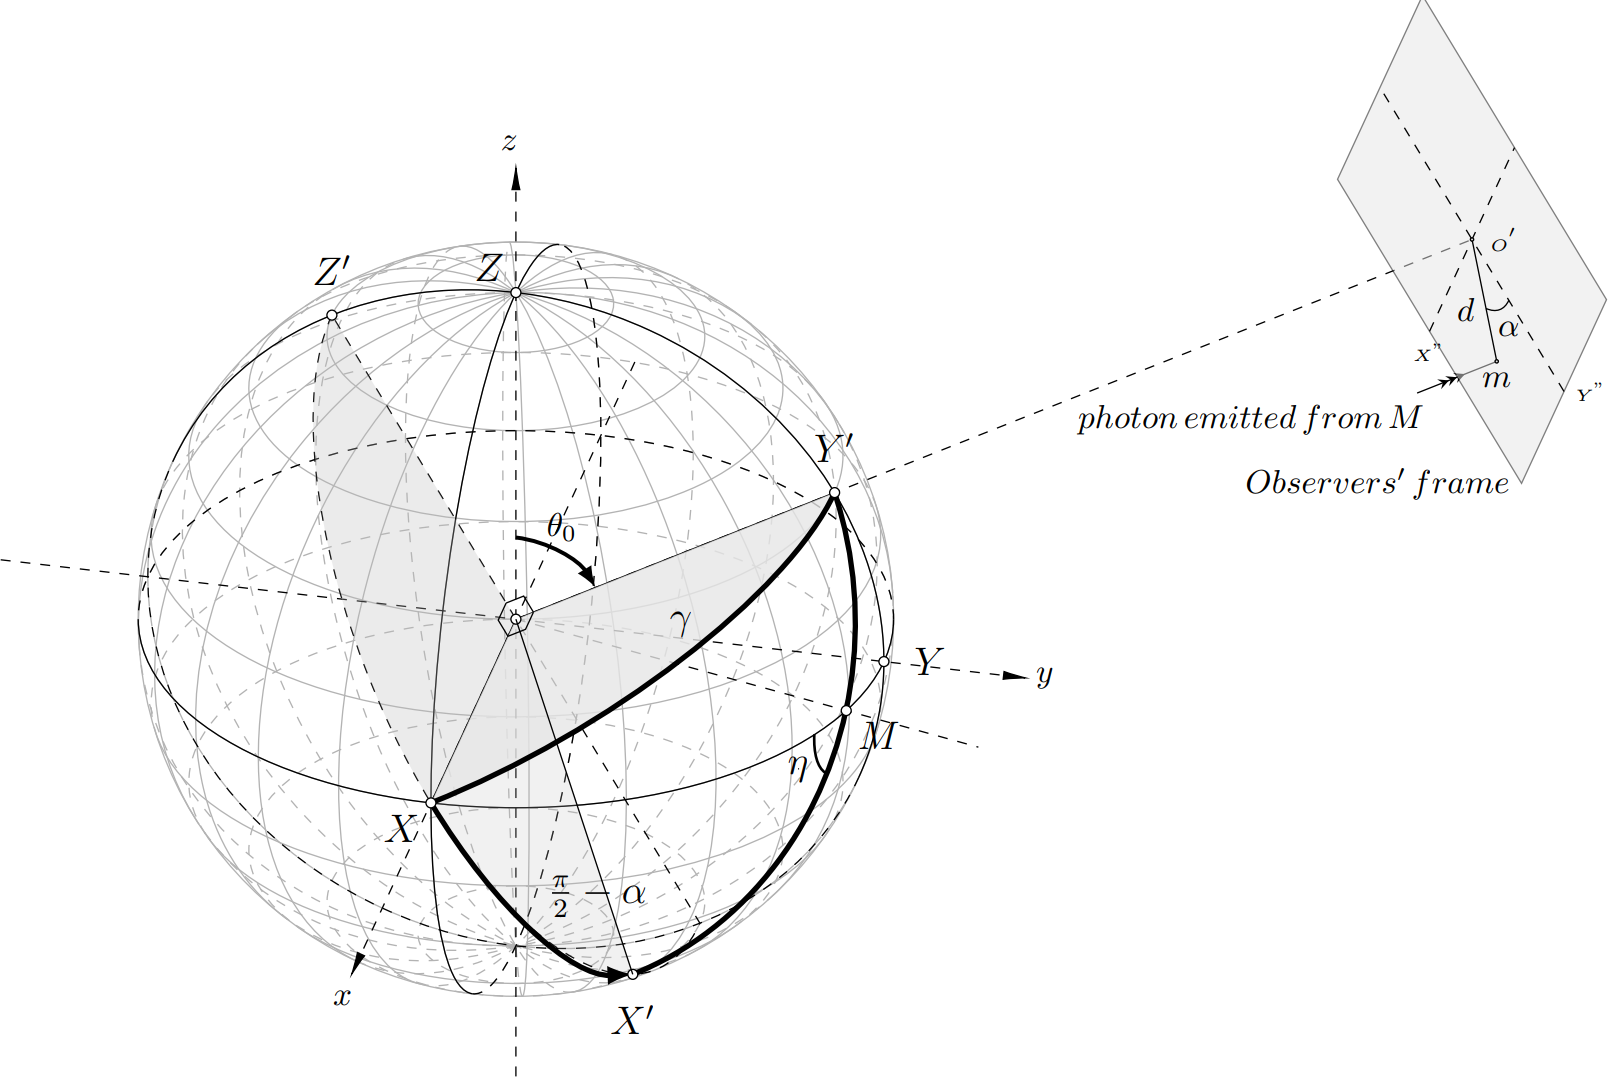
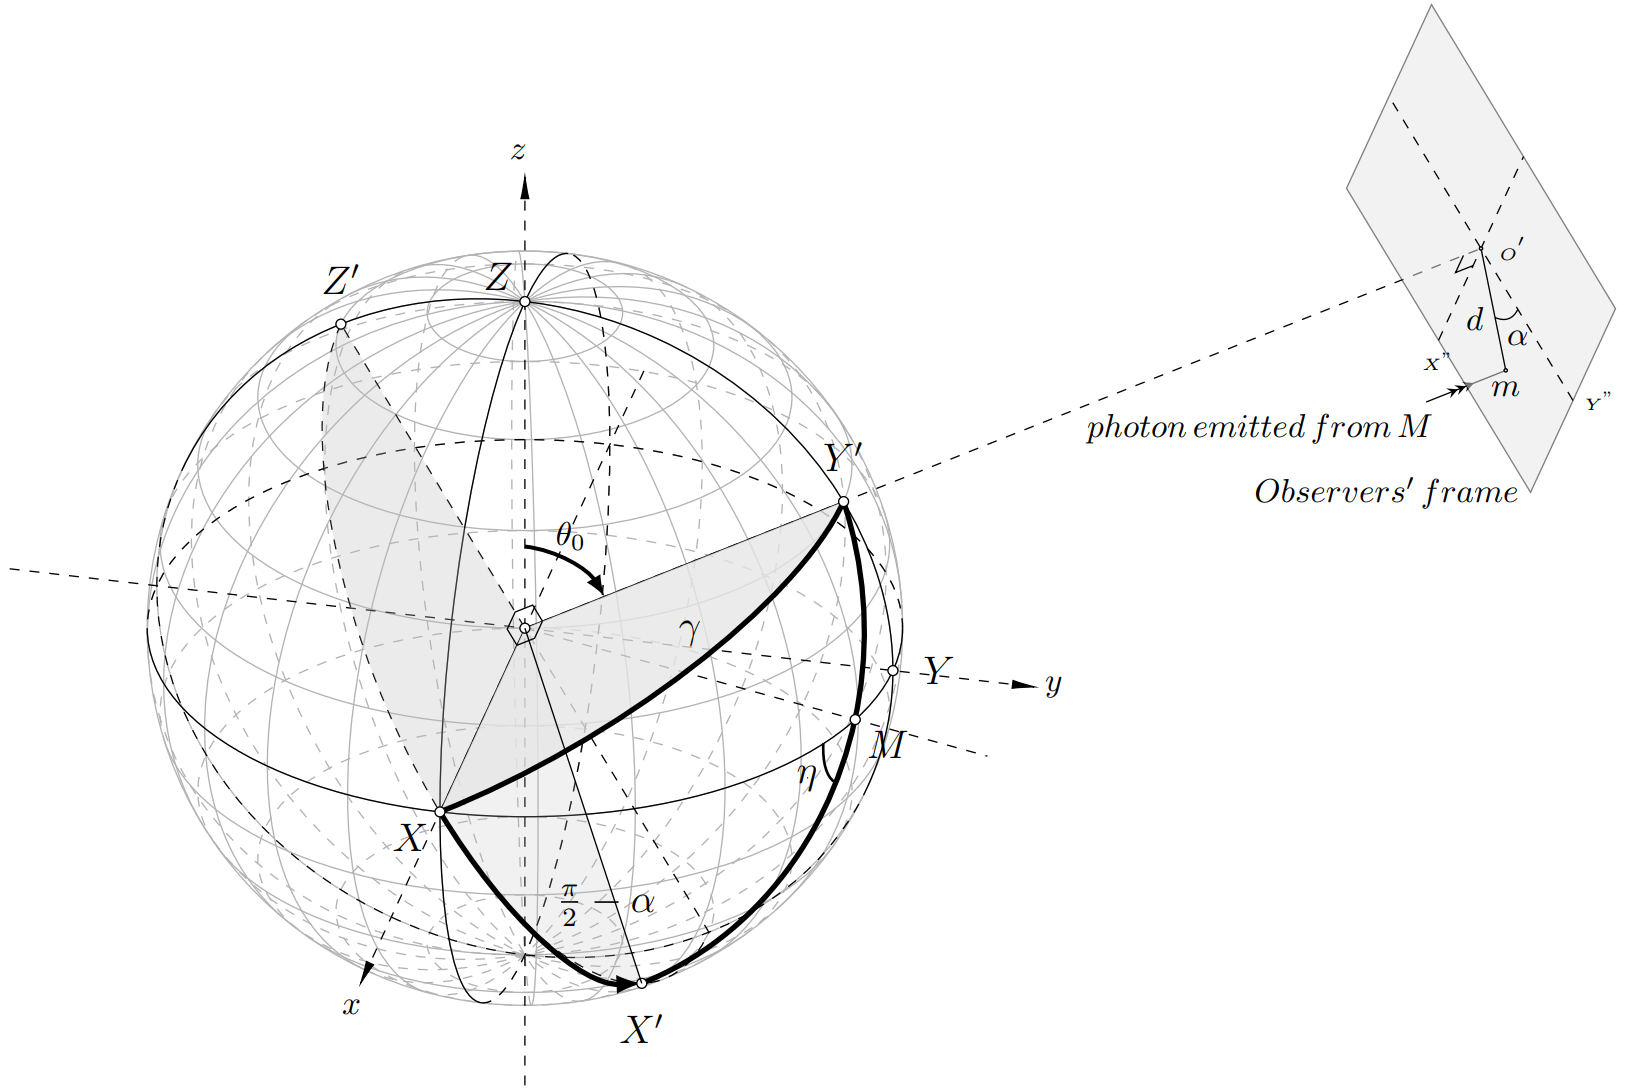
s

diff --git a/Source/main.cpp b/Source/main.cpp
@@ -6,7 +6,7 @@
 #include "BlackHolePhysics.h"
 #include <discpp.h>
 
-void plot_IR(std::vector<double>&, std::vector<double>&);
+void plot_IR(std::vector<double>&, std::vector<double>&, std::vector<double>&, std::vector<double>&);
 int main() {
 	
 	BHphysics BHp;
@@ -46,28 +46,40 @@ int main() {
 	BH.sample_Sources(20000);// , "D:/dev/Cpp/Luminet/Points/points_incl=85b.csv", "D:/dev/Cpp/Luminet/Points/points_secondary_incl=85b.csv");
 	*/
 	//test single isoradial
-	Isoradial IR(30.0*bh_mass,80*M_PI/180, bh_mass,0);
+	double inclination =80.0;//in degrees
+	double distance = 30.0;
+	Isoradial IR(distance *bh_mass, inclination *M_PI/180, bh_mass,0);
 	IR.calculate();
+	Isoradial IRg(distance * bh_mass, inclination * M_PI / 180, bh_mass, 1);//ghost
+	IRg.calculate();
 	std::pair<std::vector<double>, std::vector<double>> bare_isoradials= IR.get_bare_isoradials();//temporary functions for debugging
 	std::vector<double> xx = std::get<0>(bare_isoradials);
 	std::vector<double> yy = std::get<1>(bare_isoradials);
-	/*for (int i = 0; i < xx.size(); i++) {
+	std::pair<std::vector<double>, std::vector<double>> bare_ghost_isoradials = IRg.get_bare_isoradials();//temporary functions for debugging
+	std::vector<double> xx_ghost = std::get<0>(bare_ghost_isoradials);
+	std::vector<double> yy_ghost = std::get<1>(bare_ghost_isoradials);
+	/*std::cout << std::endl << std::endl << std::endl << "Passed to main with size " << xx.size() << std::endl;
+	for (size_t i = 0; i < xx.size(); i++) {
 		std::cout << i << "):  (x, y) = (" << xx[i] << ", " << yy[i] << ")" << std::endl;
 	}*/
-	plot_IR(yy, xx);
+	plot_IR(xx, yy, xx_ghost,yy_ghost);
 
 	return 0;
 }
 
-void plot_IR(std::vector<double>& xx, std::vector<double>& yy) {
+void plot_IR(std::vector<double>& xx, std::vector<double>& yy, std::vector<double>& xx_g, std::vector<double>& yy_g) {
 	Dislin g;
-	int n = 400;
-	double xray[400], yray[400], x2[10], y2[10];
+	int n =xx.size();
+	
+	//double xray[400], yray[400];
 
 	double x_max = -10000000000.0;
 	double x_min = 10000000000.0;
 	double y_max = -10000000000.0;
 	double y_min = 10000000000.0;
+	/*
+	
+	int n = 400;
 	for (unsigned i = 0; i < n; i++)
 	{
 		yray[i] = xx[i];
@@ -76,15 +88,30 @@ void plot_IR(std::vector<double>& xx, std::vector<double>& yy) {
 		if (xray[i] >= x_max)x_max = xray[i];
 		if (yray[i] <= y_min)y_min = yray[i];
 		if (yray[i] > y_max)y_max = yray[i];
+	}*/
+	for (unsigned i = 0; i < n; i++)
+	{
+		if (xx[i] <= x_min)x_min = xx[i];
+		if (xx[i] >= x_max)x_max = xx[i];
+		if (yy[i] <= y_min)y_min = yy[i];
+		if (yy[i] > y_max)y_max = yy[i];
 	}
+	x_max *= 1.1;
+	x_min *= 1.1;
+	y_max *= 1.1;
+	y_min *= 1.1;
+	if (x_max < y_max)x_max = y_max;
+	if (x_min < y_min)y_min = x_min;
+	if (x_max > y_max)y_max = x_max;
+	if (x_min > y_min)x_min = y_min;
 
 	g.metafl("cons");
-	g.scrmod("revers");
+	//g.scrmod("revers");
 	g.disini();
 	g.pagera();
 	g.complx();
 	g.axspos(450, 1800);
-	g.axslen(2200, 1200);
+	g.axslen(1200, 1200);
 
 	g.name("X-axis", "x");
 	g.name("Y-axis", "y");
@@ -97,11 +124,13 @@ void plot_IR(std::vector<double>& xx, std::vector<double>& yy) {
 	g.titlin("(no redshift)", 3);
 
 
-	int ic = g.intrgb(0.95, 0.95, 0.95);
+	//int ic = g.intrgb(0.95, 0.95, 0.95);
+	int ic = g.intrgb(0., 0., 0.);
 	g.axsbgd(ic);
 
 	g.graf(x_min, x_max, x_min, (x_max-x_min)/10, y_min, y_max, y_min,  (y_max - y_min) / 10);
-	g.setrgb(0.7, 0.7, 0.7);
+	//g.setrgb(0.7, 0.7, 0.7);
+	g.setrgb(0.0, 0.0, 0.0);
 	g.grid(1, 1);
 	g.winfnt("Times New Roman Bold");
 	//g.psfont("Courier-Bold");
@@ -111,7 +140,11 @@ void plot_IR(std::vector<double>& xx, std::vector<double>& yy) {
 
 	g.color("red");
 	g.linwid(3);
-	g.curve(xray, yray, n);
+	//g.curve(xray, yray, n);
+	g.curve(&xx[0], &yy[0], n);
+	g.color("blue");
+	g.linwid(3);
+	g.curve(&xx_g[0], &yy_g[0], n);
 
 	g.disfin();
 }

diff --git a/Source/TensorCalculus.cpp b/Source/TensorCalculus.cpp
@@ -188,23 +188,22 @@ std::vector<double> OperatorsOrder2::linspace(const double& start_in, const doub
 	return linspaced;
 }
 
-std::pair<std::vector<double>, std::vector<double>> OperatorsOrder2::polar_to_cartesian_lists(std::vector<double> radii, std::vector<double> angles, double rotation) {
-	std::vector<double> x;
-	std::vector<double> y;
-
-	for (size_t i = 0; i < radii.size(); ++i) {
-		double x_ = radii[i] * std::cos(angles[i] + rotation);
-		double y_ = radii[i] * std::sin(angles[i] + rotation);
-		x.push_back(x_);
-		y.push_back(y_);
+std::pair<std::vector<double>, std::vector<double>> OperatorsOrder2::polar_to_cartesian_lists(const std::vector<double>& radii, const std::vector<double>& angles, const double& rotation) {
+	std::vector<double>IRx;
+	std::vector<double> IRy;
+	//std::cout << "Values computed in OperatorsOrder2::polar_to_cartesian_lists;" << std::endl;
+	for (unsigned i = 0; i < radii.size(); i++) {
+		IRx.push_back(radii[i] * cos(angles[i]+rotation));
+		IRy.push_back(radii[i] * sin(angles[i]+rotation));
+		//std::cout << i << ") for angle : " << angles[i]*180/M_PI <<" and radius " << radii[i] <<": x = " << IRx[i] << " and y = " << IRy[i] << std::endl;
 	}
 
-	return std::make_pair(x, y);
+	return std::make_pair(IRx, IRy);
 }
 
 std::pair<double, double> OperatorsOrder2::polar_to_cartesian_single(double th, double radius, double rotation) {
-	double x = radius * cos(th + rotation);
-	double y = radius * sin(th + rotation);
+	double x = radius * sin(th + rotation);
+	double y = radius * cos(th + rotation);
 	return std::make_pair(x, y);
 }
 

diff --git a/Include/IsoRadials.h b/Include/IsoRadials.h
@@ -17,10 +17,11 @@ public:
 	Isoradial(double radius, double incl, double bh_mass, int order, angular_properties);
 	//Isoradial(const std::vector<double>& angles, const std::vector<double>& radius_b);
 	std::pair<std::vector<double>, std::vector<double>> get_bare_isoradials();
+	//std::pair<std::vector<double>, std::vector<double>> get_bare_ghost_isoradials();
 
 private://variables
 	double M;  // mass of the black hole containing this isoradial
-	double t;  // inclination of the observer's plane
+	double theta_0;  // inclination of the observer's plane
 	double radius;
 	int order;
 	struct params {
@@ -30,7 +31,8 @@ private://variables
 	
 	std::vector<double> redshift_factors;
 	std::tuple<std::vector<double>, std::vector<double>> cartesian_co;
-	std::pair<std::vector<double>, std::vector<double>> bare_isoradials;
+	std::pair<std::vector<double>, std::vector<double>> bare_isoradials;//TEMPORARY for debugging: holds the polar coordinates (angles, radii) of the projected isoradial
+	//std::pair<std::vector<double>, std::vector<double>> bare_ghost_isoradials;//TEMPORARY for debugging: holds the polar coordinates (angles, radii) of the projected isoradial
 
 private://methods
 
@@ -55,6 +57,6 @@ public://variables ? make get method?
 
 	std::vector<double> X;
 	std::vector<double> Y;
-	std::vector<double> radii_b;
-	std::vector<double> angles;
+	std::vector<double> _radii_b;
+	std::vector<double> _angles;
 };

diff --git a/Include/TensorCalculus.h b/Include/TensorCalculus.h
@@ -35,15 +35,14 @@ public:
 	std::vector<std::vector<std::vector<double>>> Add(const std::vector<std::vector<std::vector<double>>>&, const double&, const std::vector<std::vector<std::vector<double>>>&, const double&);
 	static std::vector<double>  linspace(const double&, const double&, const int&);
 
-	static std::pair<std::vector<double>, std::vector<double>> polar_to_cartesian_lists(std::vector<double> radii, std::vector<double> angles, double rotation);
+	static std::pair<std::vector<double>, std::vector<double>> polar_to_cartesian_lists(const std::vector<double>& radii, const std::vector<double>& angles, const double& rotation);
 	static std::pair<double, double> polar_to_cartesian_single(double th, double radius, double rotation);
 	//static std::vector<double> polar_to_cartesian_single_as_vector(double th, double radius, double rotation);
 	static std::pair<double, double> cartesian_to_polar(double x, double y);
 	static double get_angle_around(const std::vector<double>& p1, const std::vector<double>& p2);
 
 private:
-	static std::vector<double> matrixMultiply(const std::vector<std::vector<double>>& matrix,
-		const std::vector<double>& vector);
+	static std::vector<double> matrixMultiply(const std::vector<std::vector<double>>& matrix, const std::vector<double>& vector);
 	int nGrid;
 	double delta;
 };

diff --git a/Source/BlackHole.cpp b/Source/BlackHole.cpp
@@ -39,7 +39,7 @@ Isoradial BlackHole::calc_apparent_outer_disk_edge() {
 	std::vector<double> X_;
 	std::vector<double> Y_;
 	std::pair<std::vector<double>, std::vector<double>> XY_;
-	XY_ = OperatorsOrder2::polar_to_cartesian_lists(ir.radii_b, ir.angles, -M_PI / 2);
+	XY_ = OperatorsOrder2::polar_to_cartesian_lists(ir._radii_b, ir._angles, -M_PI / 2);
 	ir.X = std::get<0>(XY_);
 	ir.Y = std::get<1>(XY_);
 	return ir;
@@ -53,13 +53,13 @@ Isoradial BlackHole::calc_apparent_outer_disk_edge() {
 Isoradial BlackHole::calc_apparent_inner_disk_edge() {
 	// Implementation of calc_apparent_inner_disk_edge method
 	Isoradial ir(disk_inner_edge, t, M, 0);
-	for (auto& b : ir.radii_b) {
+	for (auto& b : ir._radii_b) {
 		b *= 0.99; // scale slightly down
 	}
 	std::vector<double> X_;
 	std::vector<double> Y_;
 	std::pair<std::vector<double>, std::vector<double>> XY_;
-	XY_ = OperatorsOrder2::polar_to_cartesian_lists(ir.radii_b, ir.angles, -M_PI / 2);
+	XY_ = OperatorsOrder2::polar_to_cartesian_lists(ir._radii_b, ir._angles, -M_PI / 2);
 	ir.X = std::get<0>(XY_);
 	ir.Y = std::get<1>(XY_);
 	return ir;

diff --git a/Source/IsoRedShift.cpp b/Source/IsoRedShift.cpp
@@ -96,7 +96,7 @@ std::pair<std::vector<double>, std::vector<double>> IsoRedShift::calc_redshift_o
 	_angular_properties_.angular_precision = angular_precision;
 	_angular_properties_.mirror = mirror;
 
-	Isoradial ir(radius, t, M, 0, _angular_properties_);
+	Isoradial ir(radius, theta_0, M, 0, _angular_properties_);
 
 	ir.find_redshift_params_.force_redshift_solution = force_solution;
 
@@ -249,7 +249,7 @@ std::pair<std::map<double, std::vector<std::vector<double>>>, std::map<double, s
 std::pair<std::vector<double>, std::vector<double>> IsoRedShift::calc_core_coordinates() {
 	// Assuming you have defined Isoradial class and its constructor in your C++ code.
 	
-Isoradial ir(6. * M, t, M, 0);
+Isoradial ir(6. * M, theta_0, M, 0);
 return ir.calc_redshift_location_on_ir(redshift);
 std::pair<std::vector<double>, std::vector<double>>a;
 return a;

diff --git a/Documentation/Math/images/fig_Coordinate_system.tex b/Documentation/Math/images/fig_Coordinate_system.tex
@@ -153,6 +153,7 @@ mark= at position 0.60 with {\arrowreversed{stealth}},
     \pic[draw = black,angle radius =0.2cm, ]{right angle= Yacc--O--Zacc};
     \pic[draw = black,angle radius =0.2cm, ]{right angle= Xb--O--Yacc};
      \pic[draw = black,angle radius =0.2cm, ]{right angle= Xb--O--Zacc};
+	      \pic[draw = black,angle radius =0.2cm, ]{right angle= O--Obs--Xaccc};
      \coordinate(Nu) at ({1.4*\R*cos(\az*0.87}, {1.1*\R*sin(\az*0.75)},0) ;
 
      \draw[ tdplot_main_coords] (Nu)--(Nu)node[]{\large$\eta$};

diff --git a/Include/IsoRedShift.h b/Include/IsoRedShift.h
@@ -21,7 +21,7 @@
 
 class IsoRedShift {
 private://variables
-	double t;  // Inclination
+	double theta_0;  // Inclination
 	double redshift;
 	double M;  // Black hole mass
 	std::unordered_map<double, std::vector<std::vector<double>>> radii_w_coordinates_dict;
